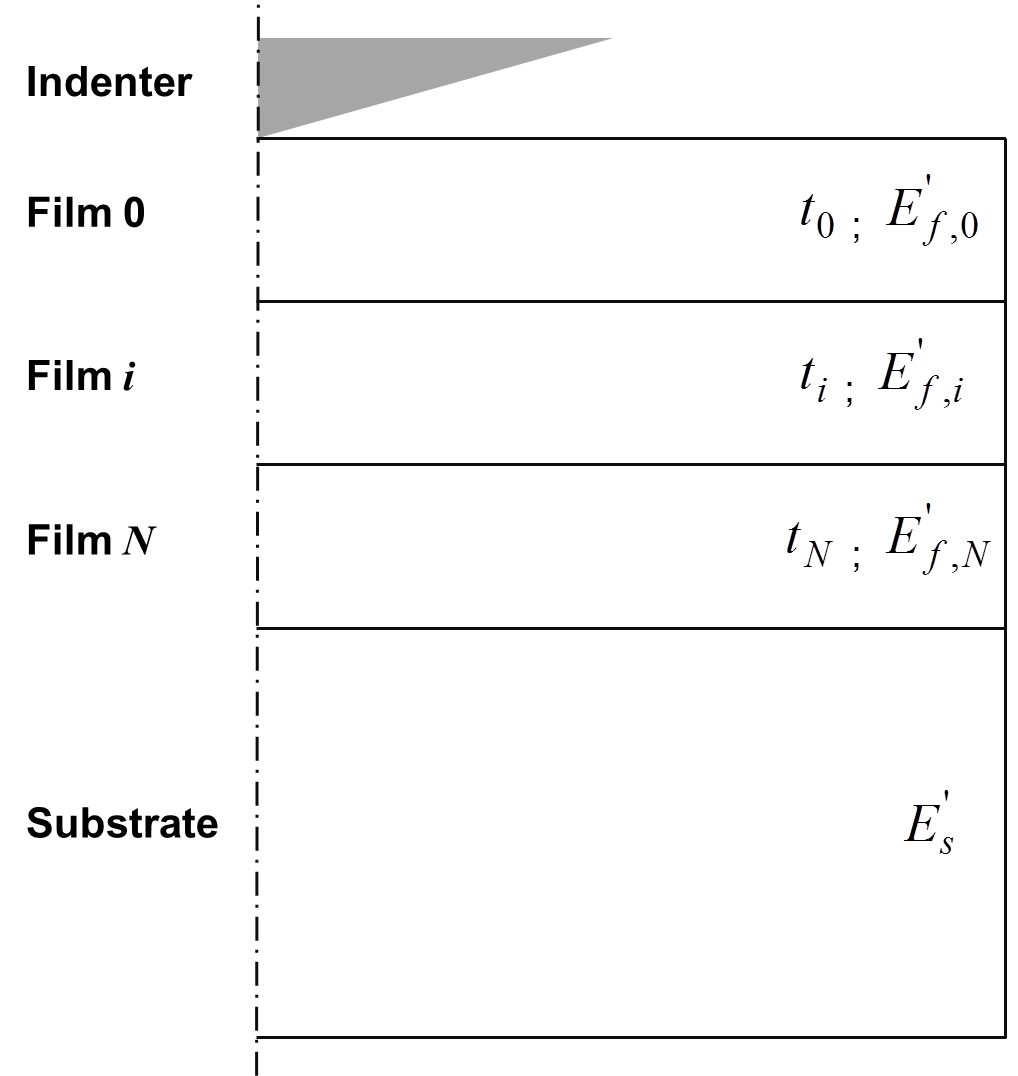
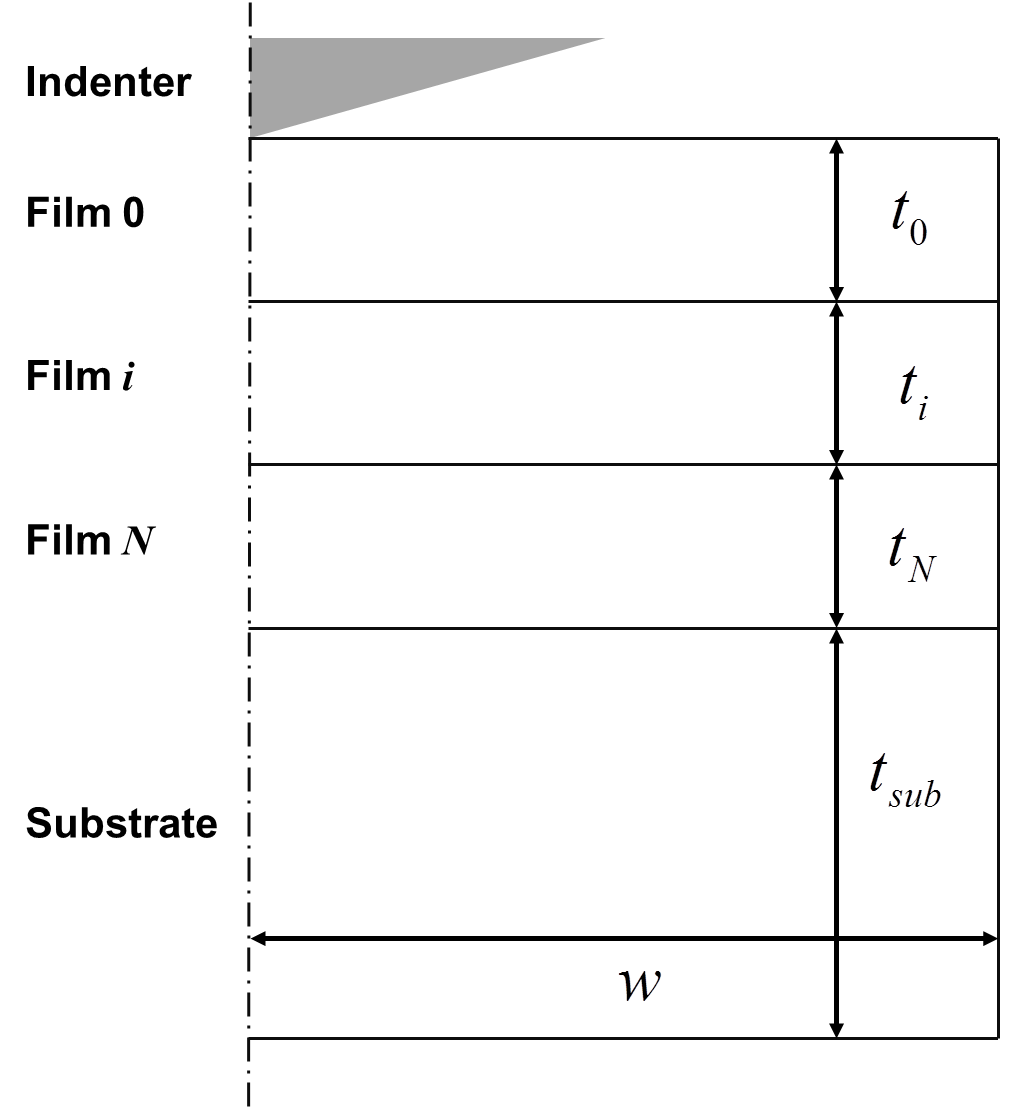
updated fem code and doc

diff --git a/Matlab_Code/fem/python4abaqus.m b/Matlab_Code/fem/python4abaqus.m
@@ -44,12 +44,11 @@ if ~isempty(scriptpath_multilayer_model)
     end
     
     if indenter_tip_defect > t_sub + t_sub/2
-        wid = 2 * indenter_tip_defect;
-        abaqus_sketch_sheet_size = 3 * indenter_tip_defect;
+        wid = 3 * indenter_tip_defect;
     else
         wid = 2 * (t_sub + t_sub/2);
-        abaqus_sketch_sheet_size = 3 * (t_sub + t_sub/2);
     end
+    abaqus_sketch_sheet_size = wid;
     
     % Definition of spherical part
     % See Mesa B. "Spherical and rounded cone nano indenters" Micro Star Technologies

diff --git a/doc/python_abaqus.rst b/doc/python_abaqus.rst
@@ -20,8 +20,11 @@ Geometry of the (multilayer) sample
 
 Each layer of the sample is characterized by its thickness (:math:`t_\text{i}`).
 
-The width and the thickness of the bulk are set in function of
-the smallest thin film thickness or the indenter tip defect.
+The thickness of the substrate (:math:`t_\text{sub}`) is set as
+2 times the highest thin film thickness.
+
+The width (:math:`w`) of the sample is calculated in function of
+the substrate thickness or the indenter tip defect.
 
 No delamination is allowed between thin films or between thin film and substrate.
 
